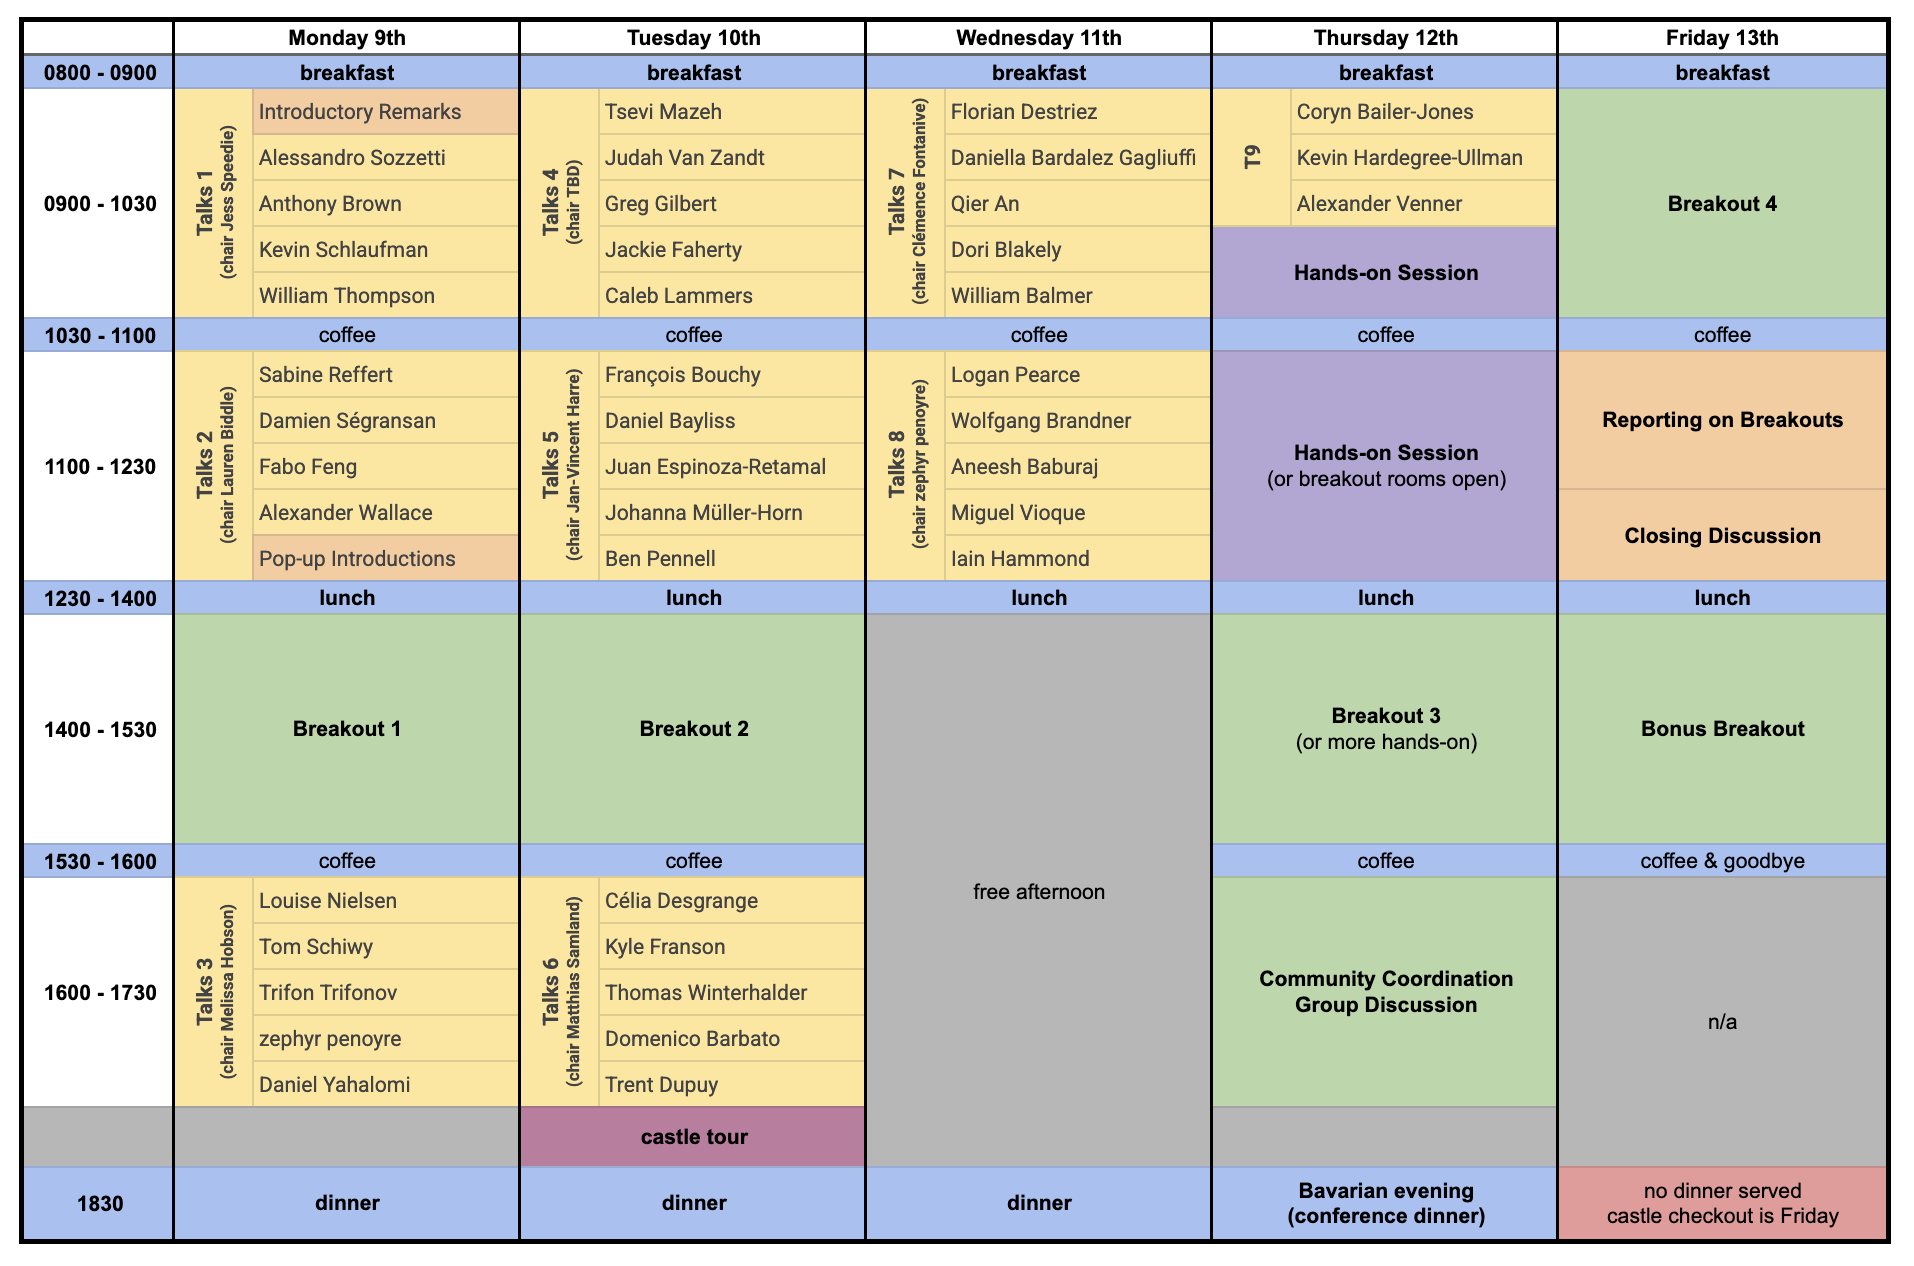
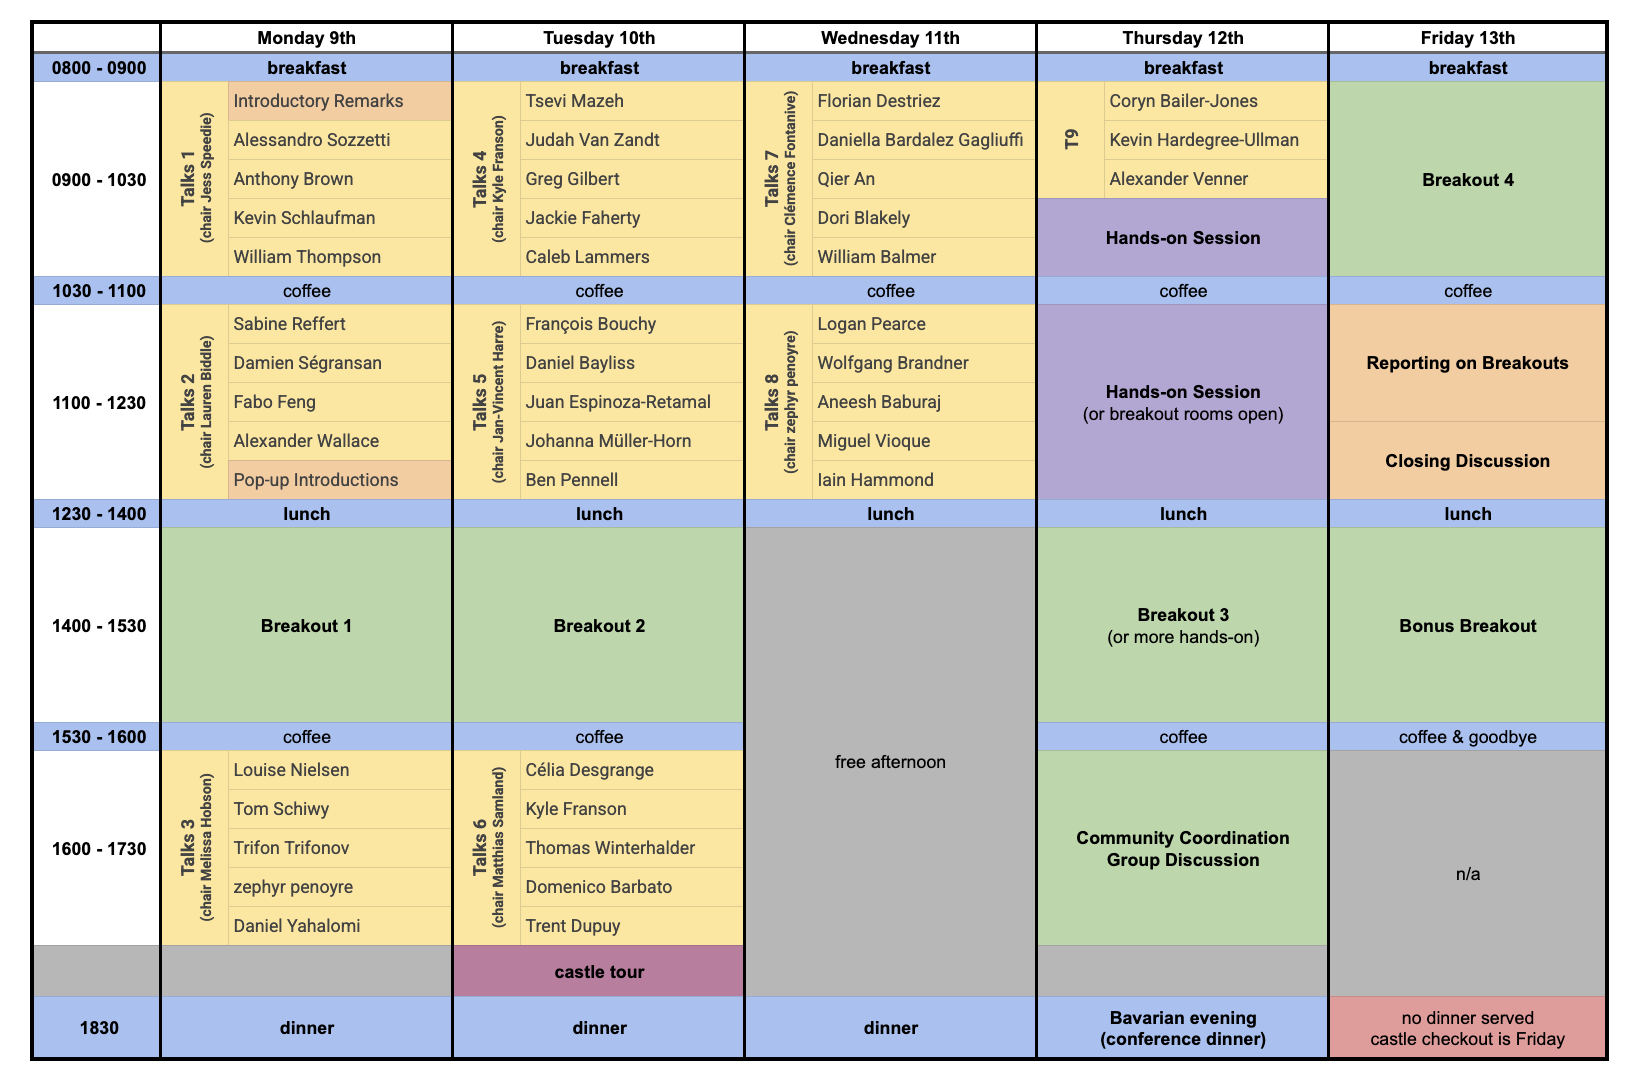
added breakout graphic and final session chair

diff --git a/docs/content/programme_detailed.md b/docs/content/programme_detailed.md
@@ -123,3 +123,5 @@ program:
 <i class="fa-regular fa-calendar" style="font-size:26px";></i> The workshop will run from Monday 9th March to Friday 13th March, and will also include a welcome reception on the evening of Sunday 8th March. Please find below a graphical program overview, and a detailed list of all sessions and talk titles.
 
 <img width="1100px" src="static/img/program.png" style="float:center">
+
+<img width="1100px" src="static/img/breakouts.png" style="float:center">
